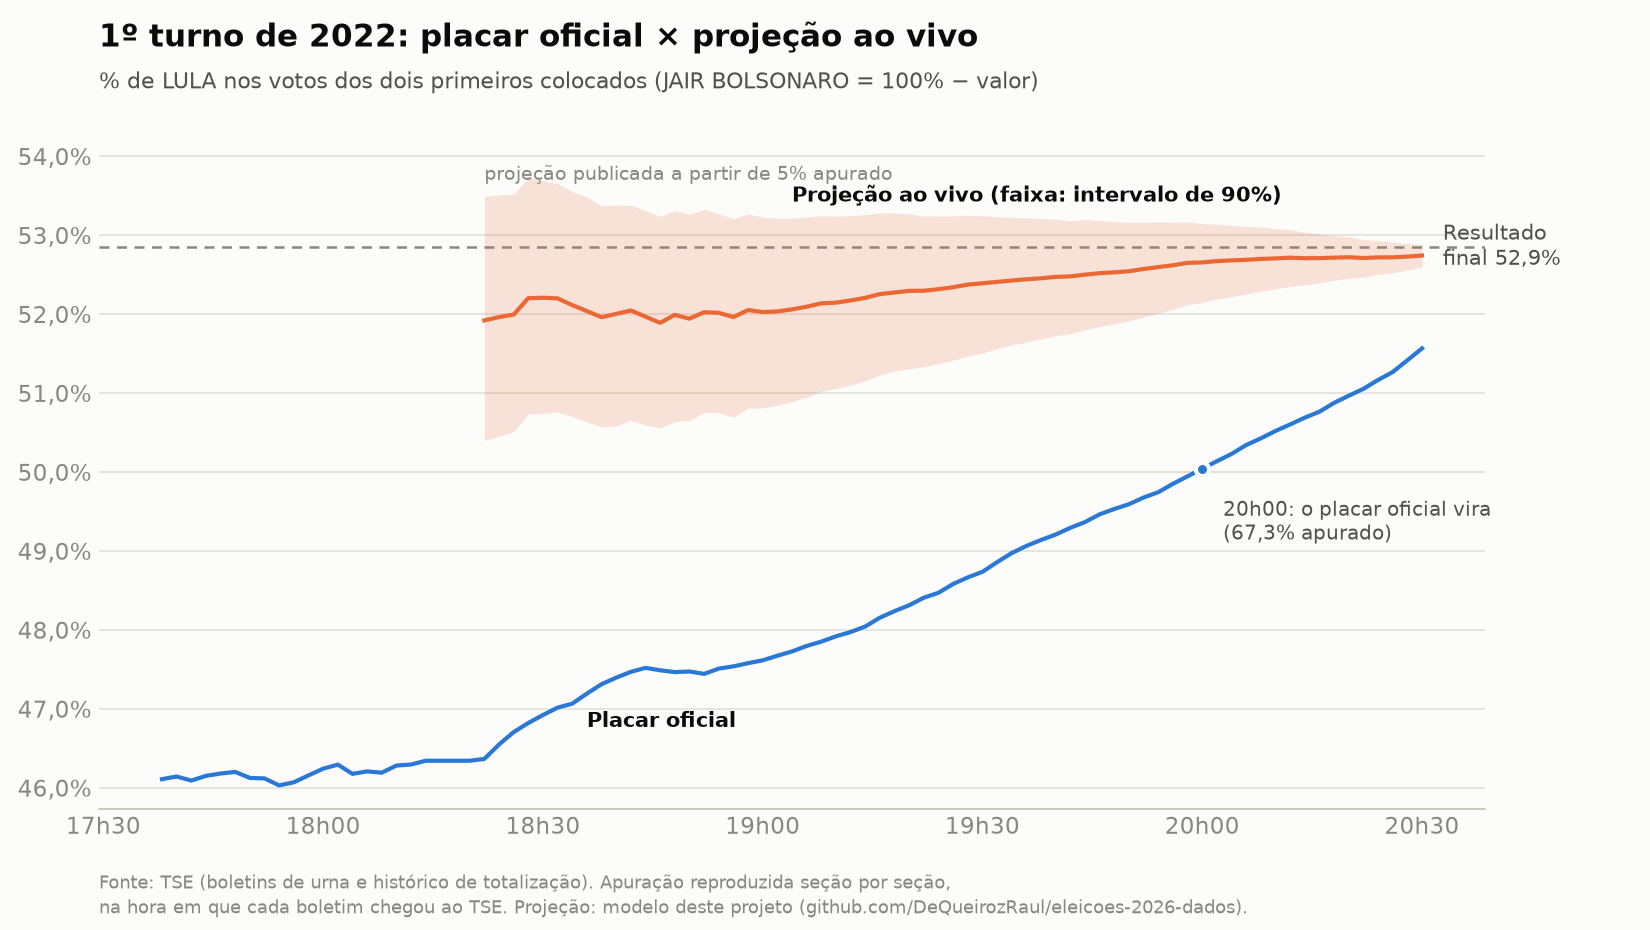
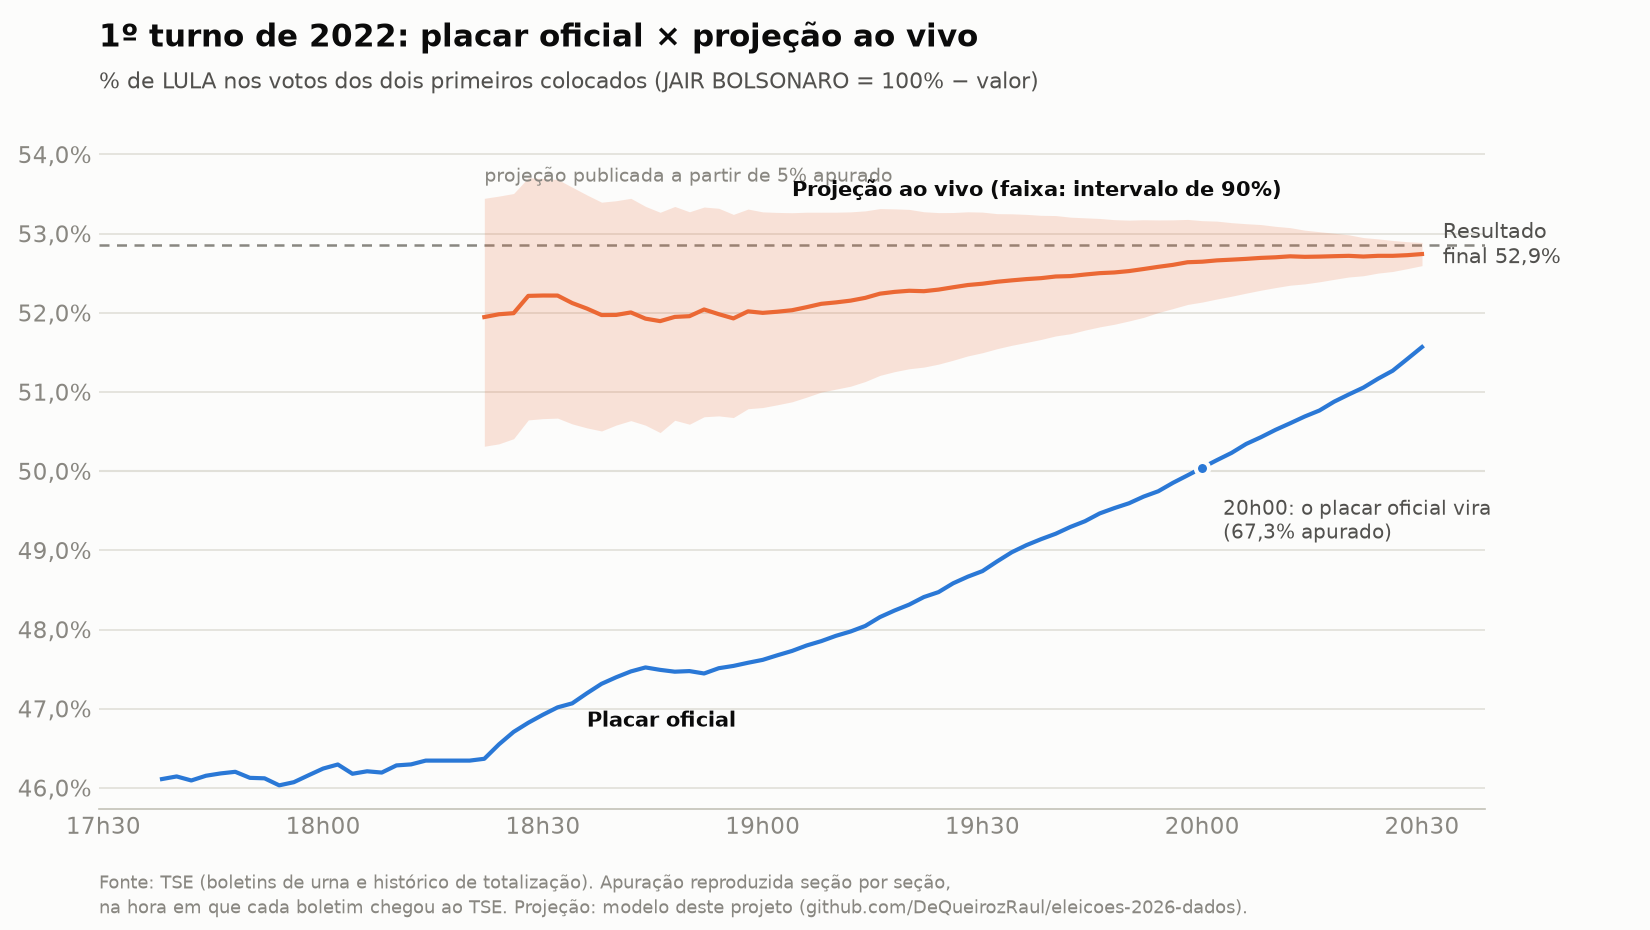
Ajustes finais para a noite de 25/10
- Antes do primeiro voto apurado, os cartões mostravam 0% × 100% (100% menos
  zero); agora mostram "—" e "aguardando os primeiros votos apurados", e o
  gráfico só aparece quando chegam votos.
- A projeção sorteia os cenários em blocos de 500: com 5.700 municípios, um
  bloco único de 3.000 cenários passava de 1 GB de memória (perto do limite do
  plano grátis do Streamlit); agora o pico é de ~330 MB, e fica mais rápida.
  Os testes com as noites de 2022 foram refeitos: os números publicados se
  mantêm (duas casas da tabela de docs/previsao.md mudaram em 0,1 ponto).
- A página distingue "conectando" (1ª leitura em andamento), "o TSE ainda não
  publicou" e "o TSE recusou os pedidos" (tenta de novo em 1 minuto).
- Placar ao vivo de Governador no 2º turno (DF primeiro, mais AC, AM, ES, RN e
  TO), só com o resultado oficial.
- Quem abrir a página antes das 16h45 entra no modo ao vivo sem recarregar.

Claude-Session: https://claude.ai/code/session_01YZ8Mxwq97kEgGU7PHEBHqv

diff --git a/app/paginas/apuracao.py b/app/paginas/apuracao.py
@@ -7,13 +7,14 @@ from pathlib import Path
 import comum
 import pandas as pd
 import plotly.graph_objects as go
+import requests
 import streamlit as st
 
 sys.path.insert(0, str(Path(__file__).resolve().parents[2]))   # para importar o pacote eleicoes
 
 from eleicoes.acompanhamento import Acompanhamento  # noqa: E402
 from eleicoes.ao_vivo import MINIMO_APURADO, Parametros  # noqa: E402
-from eleicoes.tse_ao_vivo import FUSO_BRASILIA  # noqa: E402
+from eleicoes.tse_ao_vivo import FUSO_BRASILIA, ClienteTSE  # noqa: E402
 
 PLACAR, PROJECAO = comum.SERIE, comum.DESTAQUE
 CONFIG = json.loads((comum.DADOS / "ao_vivo_config.json").read_text(encoding="utf-8"))
@@ -44,6 +45,15 @@ def pct_de(nome: str, pct_a: float) -> float:
     return pct_a if nome == A["nm_urna"] else 1 - pct_a
 
 
+def placar(linha) -> float | None:
+    """% de A no placar oficial; None enquanto não há nenhum voto apurado (com zero
+    votos, "100% menos 0%" daria 100% ao outro candidato, o que seria falso)."""
+    if pd.notna(linha["pct_a_oficial"]):
+        return float(linha["pct_a_oficial"])
+    votos = linha["qt_a"] + linha["qt_b"]
+    return float(linha["qt_a"] / votos) if votos > 0 else None
+
+
 @st.fragment(run_every=60)
 def painel_ao_vivo() -> None:
     acomp = acompanhamento(ELEICAO)
@@ -71,11 +81,12 @@ def painel_ao_vivo() -> None:
                    icon=":material/sync_problem:")
 
     publicavel = ultima["pct_secoes"] >= MINIMO_APURADO and pd.notna(ultima["pct_a_mediana"])
+    oficial = placar(ultima)
     colunas = st.columns(2)
     for coluna, nome in zip(colunas, sorted([A["nm_urna"], B["nm_urna"]])):
-        oficial = ultima["pct_a_oficial"] if pd.notna(ultima["pct_a_oficial"]) else ultima["qt_a"] / max(
-            ultima["qt_a"] + ultima["qt_b"], 1)
-        if publicavel and not acomp.encerrado:
+        if oficial is None:
+            detalhe = "aguardando os primeiros votos apurados"
+        elif publicavel and not acomp.encerrado:
             mais = pct_de(nome, ultima["pct_a_mediana"])
             faixa = sorted([pct_de(nome, ultima["pct_a_inferior"]), pct_de(nome, ultima["pct_a_superior"])])
             chance = pct_de(nome, ultima["prob_a_vence"])
@@ -86,9 +97,14 @@ def painel_ao_vivo() -> None:
         else:
             detalhe = "a projeção aparece a partir de 5% das seções apuradas"
         with coluna:
-            comum.cartao(f"{nome} · placar oficial", comum.pct(pct_de(nome, oficial), 2), detalhe, cor=CORES[nome])
+            valor = "—" if oficial is None else comum.pct(pct_de(nome, oficial), 2)
+            comum.cartao(f"{nome} · placar oficial", valor, detalhe, cor=CORES[nome])
 
-    if len(historico) > 1:
+    historico["placar"] = [placar(linha) for _, linha in historico.iterrows()]
+    historico = historico[historico["placar"].notna()]
+    if len(historico) <= 1:
+        st.caption("O gráfico da noite aparece quando chegarem os primeiros votos apurados.")
+    else:
         fig = go.Figure()
         proj = historico[(historico["pct_secoes"] >= MINIMO_APURADO) & historico["pct_a_mediana"].notna()]
         y = lambda serie: serie.map(lambda v: pct_de(PRIMEIRO, v))  # noqa: E731
@@ -101,13 +117,15 @@ def painel_ao_vivo() -> None:
             fig.add_trace(go.Scatter(x=proj["momento"], y=y(proj["pct_a_mediana"]), mode="lines", name="projeção",
                                      line=dict(color=PROJECAO, width=2),
                                      hovertemplate="%{x|%H:%M}<br>projeção: %{y:.2%}<extra></extra>"))
-        fig.add_trace(go.Scatter(x=historico["momento"], y=y(historico["pct_a_oficial"]), mode="lines",
+        fig.add_trace(go.Scatter(x=historico["momento"], y=y(historico["placar"].astype(float)), mode="lines",
                                  name="placar oficial", line=dict(color=PLACAR, width=2),
                                  hovertemplate="%{x|%H:%M}<br>placar: %{y:.2%}<extra></extra>"))
         fig.add_hline(y=0.5, line=dict(color=comum.EIXO, width=1))
         fig.update_xaxes(tickformat="%H:%M", title="horário de Brasília")
         outro = sorted([A["nm_urna"], B["nm_urna"]])[1]
-        fig.update_yaxes(tickformat=".1%", title=f"% de {PRIMEIRO}")
+        valores = pd.concat([y(historico["placar"].astype(float)), y(proj["pct_a_inferior"]), y(proj["pct_a_superior"])])
+        fig.update_yaxes(tickformat=".1%", title=f"% de {PRIMEIRO}",
+                         range=[max(0.0, min(valores.min(), 0.5) - 0.02), min(1.0, max(valores.max(), 0.5) + 0.02)])
         comum.estilo(fig, altura=380)
         comum.mostrar(fig, fonte="TSE (resultados divulgados ao vivo); projeção calculada pelo projeto.",
                       chave="ao_vivo")
@@ -126,10 +144,62 @@ def painel_ao_vivo() -> None:
             st.dataframe(tabela, hide_index=True)
 
 
+# Para testar fora da noite da eleição: AO_VIVO_ELEICAO_GOVERNADOR=6259 (1º turno, já apurado)
+ELEICAO_GOVERNADOR = int(os.environ.get("AO_VIVO_ELEICAO_GOVERNADOR", CONFIG.get("eleicao_governador", 6260)))
+UF_NOMES = {"ac": "Acre", "am": "Amazonas", "df": "Distrito Federal", "es": "Espírito Santo",
+            "rn": "Rio Grande do Norte", "to": "Tocantins"}
+
+
+@st.cache_data(ttl=60, show_spinner=False)
+def resultado_governador(eleicao: int, uf: str):
+    """Placar oficial de Governador numa UF (um arquivo do TSE, guardado por 1 minuto)."""
+    try:
+        r = ClienteTSE().resultado(eleicao, 3, uf)
+    except requests.RequestException:
+        return None
+    if r is None or r.candidatos.empty:
+        return None
+    return r.resumo, r.candidatos[["nr_candidato", "nm_urna", "sg_partido", "qt_votos"]].copy()
+
+
+@st.fragment(run_every=60)
+def painel_governador() -> None:
+    ufs = CONFIG.get("ufs_governador_2t", ["df"])
+    uf = st.selectbox("Estado", ufs, format_func=lambda u: UF_NOMES.get(u, u.upper()), key="uf_governador")
+    dados = resultado_governador(ELEICAO_GOVERNADOR, uf)
+    if dados is None:
+        st.info("Não foi possível ler o resultado do TSE agora; a página tenta de novo em 1 minuto.",
+                icon=":material/sync_problem:")
+        return
+    resumo, cand = dados
+    cand = cand.sort_values("qt_votos", ascending=False).head(2)     # no 2º turno são só dois
+    votos = int(cand["qt_votos"].sum())
+    secoes = resumo["qt_secoes_totalizadas"] / resumo["qt_secoes"] if resumo["qt_secoes"] else 0.0
+    gerado = resumo.get("dt_geracao")
+    hora = f" · arquivo do TSE das {gerado:%H:%M}" if gerado is not None and pd.notna(gerado) else ""
+    st.markdown(f"**{comum.pct(secoes, 2)} das seções apuradas**{hora}")
+    nomes = sorted(cand["nm_urna"])
+    cores = comum.cores_finalistas(nomes)
+    for coluna, nome in zip(st.columns(2), nomes):
+        linha = cand[cand["nm_urna"] == nome].iloc[0]
+        with coluna:
+            if votos == 0:
+                comum.cartao(f"{nome} ({linha['sg_partido']}) · placar oficial", "—",
+                             "aguardando os primeiros votos apurados", cor=cores[nome])
+            else:
+                comum.cartao(f"{nome} ({linha['sg_partido']}) · placar oficial",
+                             comum.pct(linha["qt_votos"] / votos, 2),
+                             f"{comum.numero(linha['qt_votos'])} votos", cor=cores[nome])
+    st.caption("Placar oficial do TSE, nos votos dados aos dois candidatos (os válidos), sem projeção: a projeção "
+               "deste site é só para Presidente. Atualiza a cada minuto.")
+
+
 agora = datetime.now(FUSO_BRASILIA)
 if "AO_VIVO_ELEICAO" in os.environ or agora >= INICIO - timedelta(minutes=15):
     st.subheader("2º turno de 2026")
     painel_ao_vivo()
+    st.subheader("Governador, 2º turno (DF e outros 5 estados)")
+    painel_governador()
 else:
     st.info(
         "**Na noite de 25/10**, a partir do fechamento das urnas (17h, horário de Brasília), esta página vai "
@@ -137,6 +207,14 @@ else:
         "feito com as duas apurações de 2022.",
         icon=":material/schedule:",
     )
+    if INICIO - agora < timedelta(hours=12):
+        @st.fragment(run_every=60)
+        def aguardar_inicio() -> None:
+            """Quem abriu a página antes das 16h45 entra no modo ao vivo sem precisar recarregar."""
+            if datetime.now(FUSO_BRASILIA) >= INICIO - timedelta(minutes=15):
+                st.rerun()
+
+        aguardar_inicio()
 
 st.subheader("O teste: a noite de 2022 reproduzida seção por seção")
 st.markdown(

diff --git a/eleicoes/ao_vivo.py b/eleicoes/ao_vivo.py
@@ -80,7 +80,10 @@ def _posterior_erros(r, w_var, X, precisao_prior):
 
 
 def projetar(estado: pd.DataFrame, p: Parametros = Parametros(), cenarios: int = 2000,
-             semente: int = 0, nivel: float = 0.9) -> Projecao:
+             semente: int = 0, nivel: float = 0.9, bloco: int = 500) -> Projecao:
+    """Projeção com `cenarios` sorteios. Os sorteios são feitos em blocos de `bloco`
+    cenários: cada bloco ocupa cenários × municípios números na memória, e com 5.700
+    municípios um bloco único de 3.000 cenários passaria de 1 GB."""
     rng = np.random.default_rng(semente)
     ufs, uf_idx = np.unique(estado["uf"].to_numpy(), return_inverse=True)
     n_uf = len(ufs)
@@ -115,22 +118,25 @@ def projetar(estado: pd.DataFrame, p: Parametros = Parametros(), cenarios: int =
     restante = (aptos - aptos_ap) * taxa
 
     # 4. sorteios
-    erros = rng.multivariate_normal(media, cov, size=cenarios)          # cenários x efeitos
-    base = prior[None, :] + erros @ X.T
     # erro próprio do município: o que já apurou informa sobre o que falta
     var_e = p.sigma_mun ** 2 + p.c_tamanho / np.maximum(aptos * taxa, 1)
     rho = np.zeros(len(estado))
-    desvio_obs = np.zeros((cenarios, len(estado)))
     rho[tem] = var_e[tem] / (var_e[tem] + p.sigma_parcial ** 2 + p.c_tamanho / np.maximum(validos[tem], 1))
-    desvio_obs[:, tem] = logit((a[tem] + 0.5) / (validos[tem] + 1))[None, :] - base[:, tem]
-    e = rho * desvio_obs + rng.normal(size=base.shape) * np.sqrt((1 - rho) * var_e)
-    atraso = (rng.normal(0, p.sigma_restante_nacional, size=(cenarios, 1))
-              + rng.normal(0, p.sigma_restante_uf, size=(cenarios, n_uf))[:, uf_idx])
-    pct_restante = logistica(base + e + atraso)
-
-    total_a = a.sum() + (pct_restante * restante).sum(axis=1)
+    logit_obs = logit((a[tem] + 0.5) / (validos[tem] + 1))
     total = validos.sum() + restante.sum()
-    pct = total_a / total
+    pct = []
+    for inicio in range(0, cenarios, bloco):
+        n = min(bloco, cenarios - inicio)
+        erros = rng.multivariate_normal(media, cov, size=n)              # cenários x efeitos
+        base = prior[None, :] + erros @ X.T
+        desvio_obs = np.zeros((n, len(estado)))
+        desvio_obs[:, tem] = logit_obs[None, :] - base[:, tem]
+        e = rho * desvio_obs + rng.normal(size=base.shape) * np.sqrt((1 - rho) * var_e)
+        atraso = (rng.normal(0, p.sigma_restante_nacional, size=(n, 1))
+                  + rng.normal(0, p.sigma_restante_uf, size=(n, n_uf))[:, uf_idx])
+        pct_restante = logistica(base + e + atraso)
+        pct.append((a.sum() + (pct_restante * restante).sum(axis=1)) / total)
+    pct = np.concatenate(pct)
     q = (1 - nivel) / 2
     return Projecao(
         pct_a_apurado=float(a.sum() / validos.sum()) if validos.sum() else float("nan"),

diff --git a/eleicoes/acompanhamento.py b/eleicoes/acompanhamento.py
@@ -104,11 +104,18 @@ class Acompanhamento:
         return uf, municipio, qt_a, qt_b
 
     def rodar_uma_vez(self) -> Rodada | None:
-        """Uma rodada completa. Devolve None se o TSE ainda não publicou nada."""
-        self.ultima_tentativa = datetime.now(FUSO_BRASILIA)
+        """Uma rodada completa. Devolve None se o TSE ainda não publicou nada.
+
+        `ultima_tentativa` só é preenchida no fim da rodada: enquanto a primeira está em
+        andamento, a página mostra "conectando" (e não "o TSE ainda não divulgou")."""
+        inicio = datetime.now(FUSO_BRASILIA)
         self._falhas = 0
         andamento = self._andamentos()
         if andamento.empty:
+            self.ultima_tentativa = inicio
+            if self._falhas:
+                # nada chegou porque o TSE recusou os pedidos, não porque não publicou
+                raise requests.RequestException(f"o TSE recusou {self._falhas} pedidos de andamento")
             return None
         self.publicado = True
         municipios = andamento[andamento["tp_abrangencia"] == "mun"]
@@ -144,6 +151,7 @@ class Acompanhamento:
         with self._trava:
             self.historico.append(rodada)
             self.erro = None
+        self.ultima_tentativa = inicio
         self.encerrado = rodada.pct_secoes >= 1 and not mudaram
         return rodada
 

diff --git a/tests/test_acompanhamento.py b/tests/test_acompanhamento.py
@@ -1,4 +1,5 @@
 import pandas as pd
+import pytest
 import requests
 
 from eleicoes.acompanhamento import Acompanhamento
@@ -97,7 +98,24 @@ def test_andamento_recusado_nao_derruba_a_rodada():
         return original(eleicao, uf)
 
     cliente.andamento = recusa
-    assert acomp.rodar_uma_vez() is None             # nada chegou nesta rodada: o histórico não muda
-    assert len(acomp.tabela_historico()) == 1
+    with pytest.raises(requests.RequestException):   # nada chegou porque o TSE recusou: é erro, não "não publicou"
+        acomp.rodar_uma_vez()
+    assert len(acomp.tabela_historico()) == 1        # o histórico não muda
     cliente.andamento = original
     assert acomp.rodar_uma_vez() is not None
+
+
+def test_ultima_tentativa_so_no_fim_da_rodada():
+    cliente = ClienteFalso()
+    acomp = acompanhamento(cliente)
+    vista_durante = []
+    original = cliente.andamento
+
+    def espiando(eleicao, uf):
+        vista_durante.append(acomp.ultima_tentativa)
+        return original(eleicao, uf)
+
+    cliente.andamento = espiando
+    acomp.rodar_uma_vez()
+    assert vista_durante and all(v is None for v in vista_durante)   # durante a 1ª rodada: "conectando"
+    assert acomp.ultima_tentativa is not None

diff --git a/scripts/site_ao_vivo.py b/scripts/site_ao_vivo.py
@@ -31,6 +31,9 @@ def main() -> None:
         "eleicao": 6258,
         "cargo": 1,
         "inicio_apuracao": "2026-10-25T17:00:00-03:00",
+        # Governador, 2º turno: só o placar oficial (sem projeção); o DF vem primeiro
+        "eleicao_governador": 6260,
+        "ufs_governador_2t": ["df", "ac", "am", "es", "rn", "to"],
         "finalistas": {lado: {"nr_candidato": int(v["nr_candidato"]), "nm_urna": v["nm_urna"]}
                        for lado, v in nomes.items()},
         "parametros": asdict(parametros),

diff --git a/README.md b/README.md
@@ -28,7 +28,7 @@ a tabela com os números de cada gráfico
 | Patrimônio declarado | bens por cargo e partido e a evolução desde 2018, descontada a inflação |
 | Eleitorado | pirâmide etária, voto facultativo (16–17 e 70+), municípios com mais eleitores que habitantes, abstenção por perfil |
 | Previsão do 2º turno | previsão com margem de erro, teste nas eleições passadas e cenários dos eliminados |
-| Apuração ao vivo | na noite de 25/10, placar e projeção a cada minuto; até lá, o teste com 2022 |
+| Apuração ao vivo | na noite de 25/10, placar e projeção de Presidente a cada minuto, e o placar de Governador no DF e em mais 5 estados; até lá, o teste com 2022 |
 | Mapa do DF | as 35 regiões administrativas e os locais de votação do DF, 2022 e 2026 |
 | Conferência dos dados | as somas batem com o oficial? E por que a Lei de Benford não prova fraude |
 | Dinheiro de campanha | entra em novembro, quando fecharem as prestações de contas |

diff --git a/docs/publicar_site.md b/docs/publicar_site.md
@@ -53,7 +53,10 @@ computador `scripts\preparar_site.py`, faça commit dos arquivos de
 
 - A página **Apuração ao vivo** começa a buscar os resultados no TSE sozinha às
   16h45 (horário de Brasília) e atualiza a cada minuto. Não precisa deixar o
-  seu computador ligado.
+  seu computador ligado. Quem já estiver com a página aberta entra no modo ao
+  vivo sem recarregar. Além de Presidente (placar e projeção), ela mostra o
+  placar de Governador no DF e nos outros 5 estados com 2º turno.
+- Até chegar o primeiro voto apurado, os cartões mostram "—" (e não 0% × 100%).
 - **Abra o site umas 16h30.** Sites do plano grátis "dormem" quando ficam um
   tempo sem visitas; se aparecer um botão para acordar o app, clique e espere
   cerca de 1 minuto.

diff --git a/docs/previsao.md b/docs/previsao.md
@@ -293,11 +293,11 @@ Erro em relação ao resultado final (pontos percentuais):
 
 | Apurado | 2º turno: placar oficial | 2º turno: projeção | 1º turno: placar oficial | 1º turno: projeção |
 |---|---|---|---|---|
-| 5% | −4,6 | +0,5 | −6,5 | −0,8 |
+| 5% | −4,6 | +0,5 | −6,5 | −0,7 |
 | 10% | −2,9 | −0,5 | −5,8 | −0,7 |
 | 25% | −2,1 | −0,7 | −5,2 | −0,8 |
 | 50% | −1,2 | −0,6 | −3,8 | −0,4 |
-| 75% | −0,7 | −0,2 | −2,3 | −0,1 |
+| 75% | −0,7 | −0,2 | −2,3 | −0,2 |
 
 - **Lado certo desde o início:** depois de 5% apurado, a projeção mostrou LULA à
   frente o tempo todo nos dois turnos. O placar oficial só virou às 18h44 no
